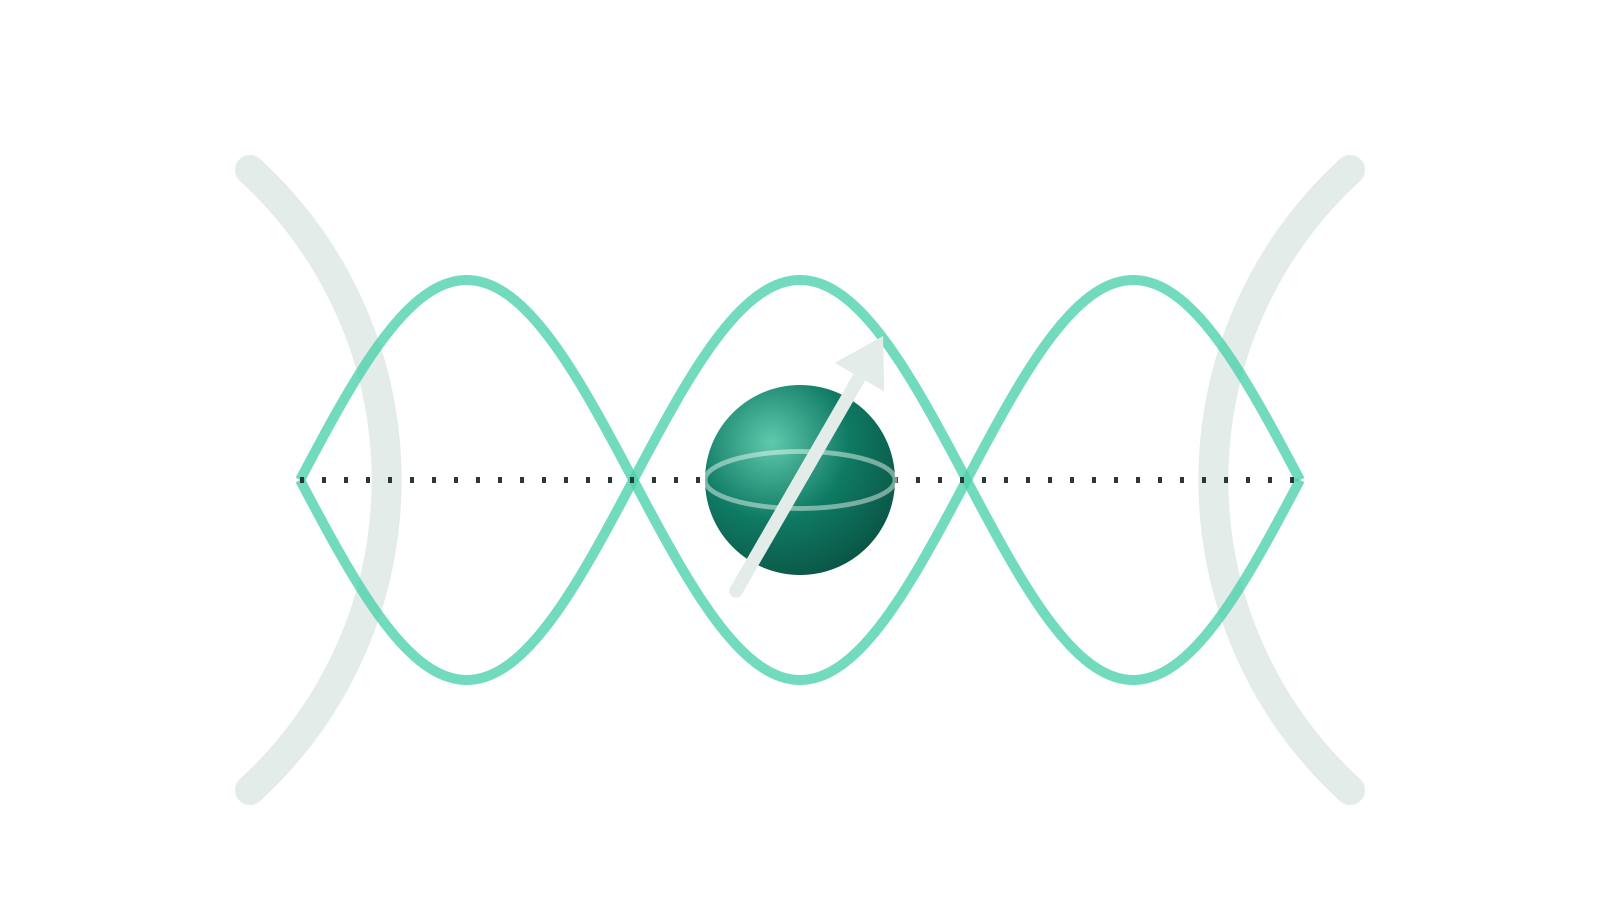
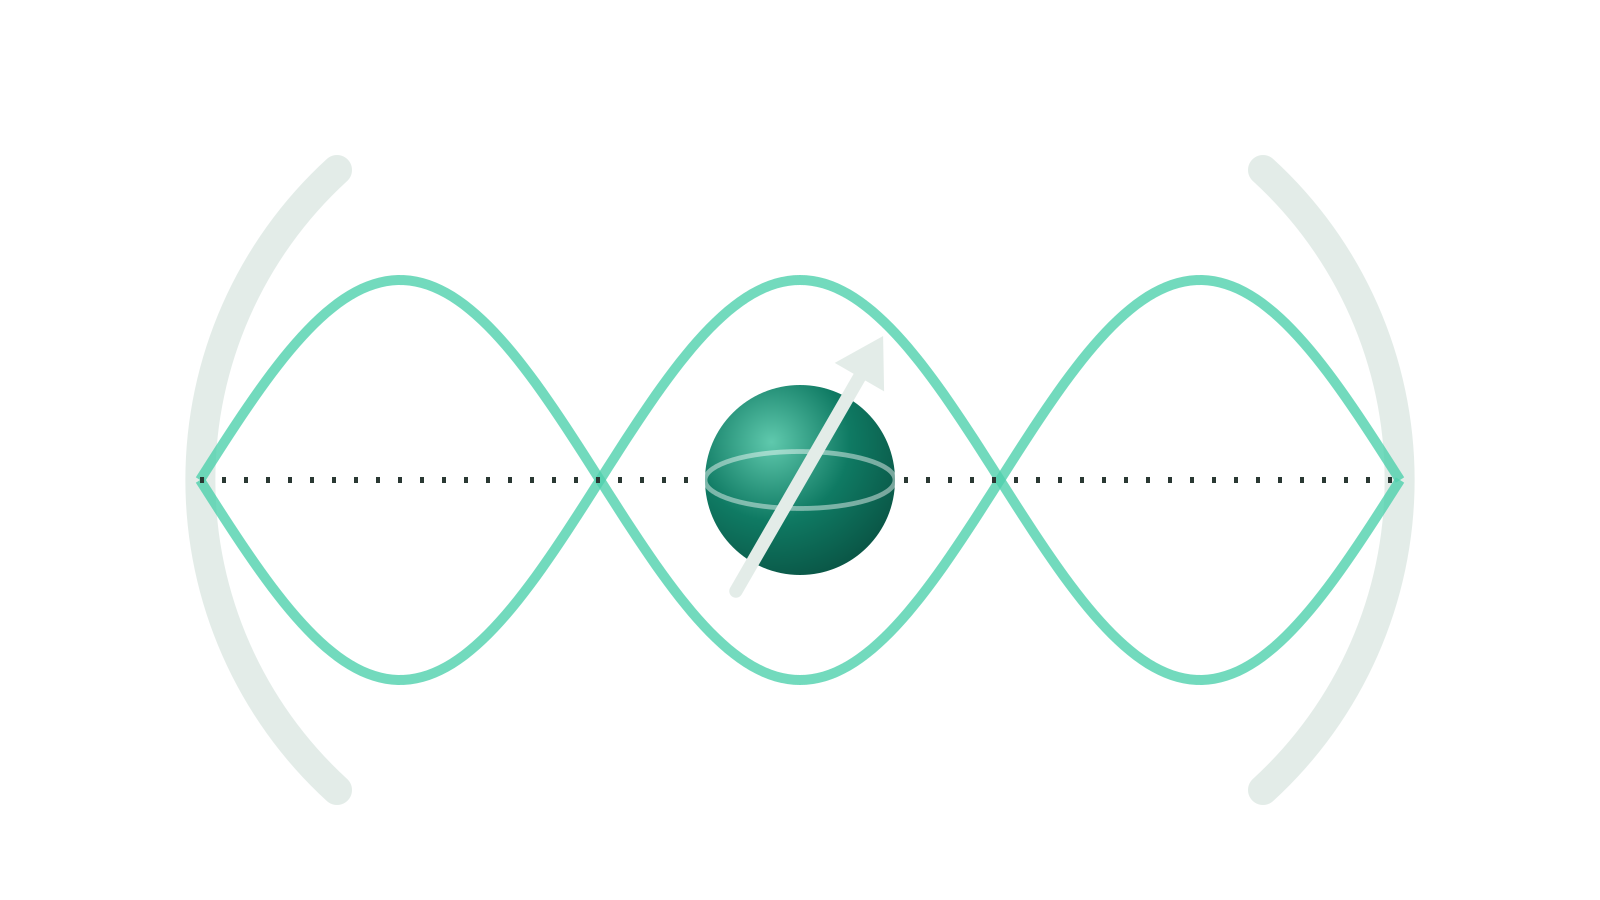
Light-matter figure: concave cavity mirrors facing each other
The mirrors were drawn ") (", curving away from each other; a cavity has
concave mirrors facing each other, "( )". The standing wave now runs from
mirror to mirror (nodes there, antinode at the spin).

Claude-Session: https://claude.ai/code/session_015nMawTpN5M7LMnzggtVfPt

Changed region(s): [[0.0938, 0.1556, 0.9062, 0.9022]]

diff --git a/tools/newsart.py b/tools/newsart.py
@@ -190,14 +190,15 @@ def light_matter(c):
     """Light-matter interaction: a spin between the two mirrors of a cavity, inside the photon's standing wave."""
     ink, soft, acc = c["ink"], c["soft"], c["accent"]
     out = ""
-    for x, sweep in ((250, 1), (1350, 0)):  # curved cavity mirrors
-        out += (f'<path d="M{x} 170 A420 420 0 0 {sweep} {x} 790" fill="none" stroke="{ink}" stroke-width="30" '
+    # concave cavity mirrors facing each other, "( )": radius 420 over a 620 px chord, so each bulges 137 px outwards
+    for x_end, sweep in ((337, 0), (1263, 1)):
+        out += (f'<path d="M{x_end} 170 A420 420 0 0 {sweep} {x_end} 790" fill="none" stroke="{ink}" stroke-width="30" '
                 f'stroke-linecap="round"/>')
-    for k in (1, -1):  # standing wave between the mirrors (its envelope)
-        pts = " ".join(f"{300 + 1000 * i / 200:.1f},{480 + k * 200 * math.sin(2 * math.pi * i / 200 * 1.5):.1f}"
+    for k in (1, -1):  # standing wave from mirror to mirror: nodes at the mirrors, antinode at the spin
+        pts = " ".join(f"{200 + 1200 * i / 200:.1f},{480 + k * 200 * math.sin(2 * math.pi * i / 200 * 1.5):.1f}"
                        for i in range(201))
         out += f'<polyline points="{pts}" fill="none" stroke="{acc}" stroke-width="10" opacity=".8"/>'
-    out += f'<line x1="300" y1="480" x2="1300" y2="480" stroke="{soft}" stroke-width="6" stroke-dasharray="4 18"/>'
+    out += f'<line x1="200" y1="480" x2="1400" y2="480" stroke="{soft}" stroke-width="6" stroke-dasharray="4 18"/>'
     out += spin(800, 480, 95, 30, c)
     return out
 
